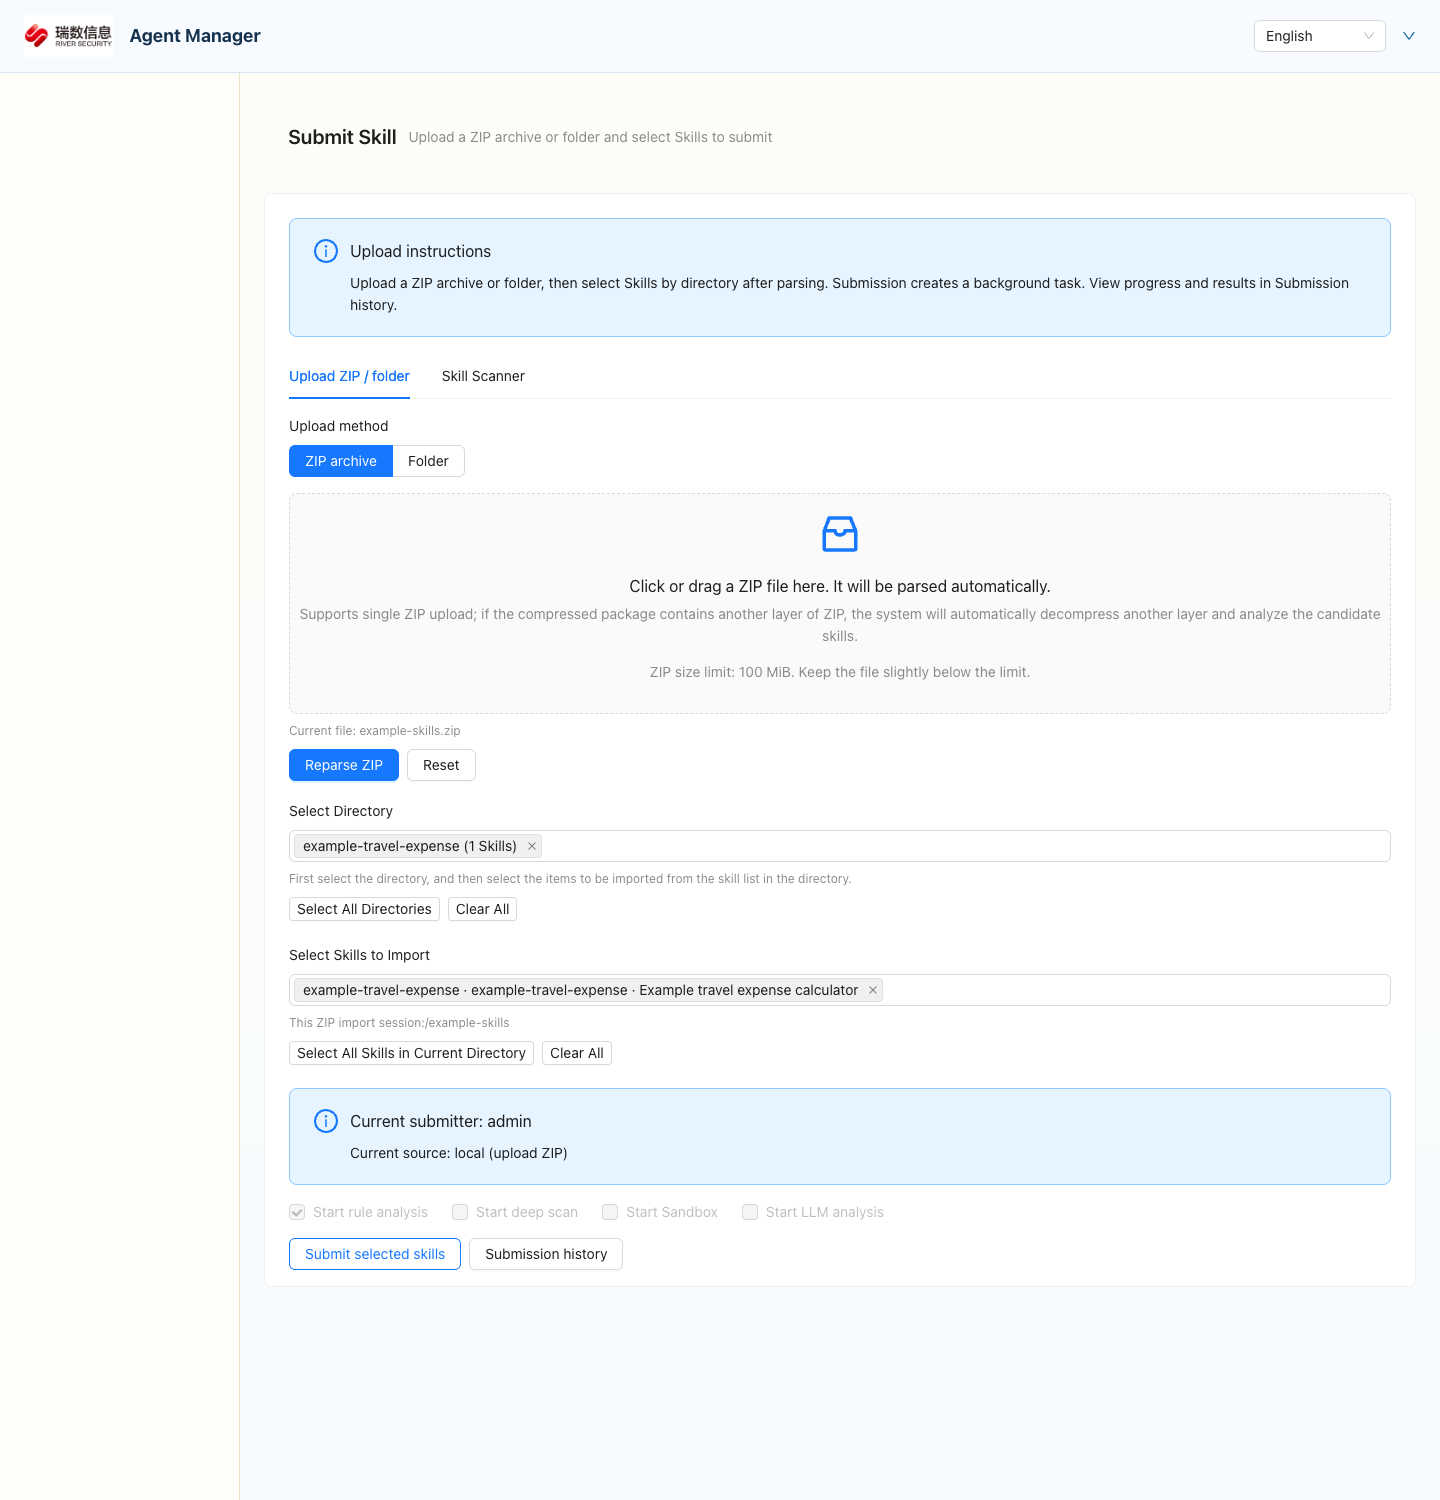
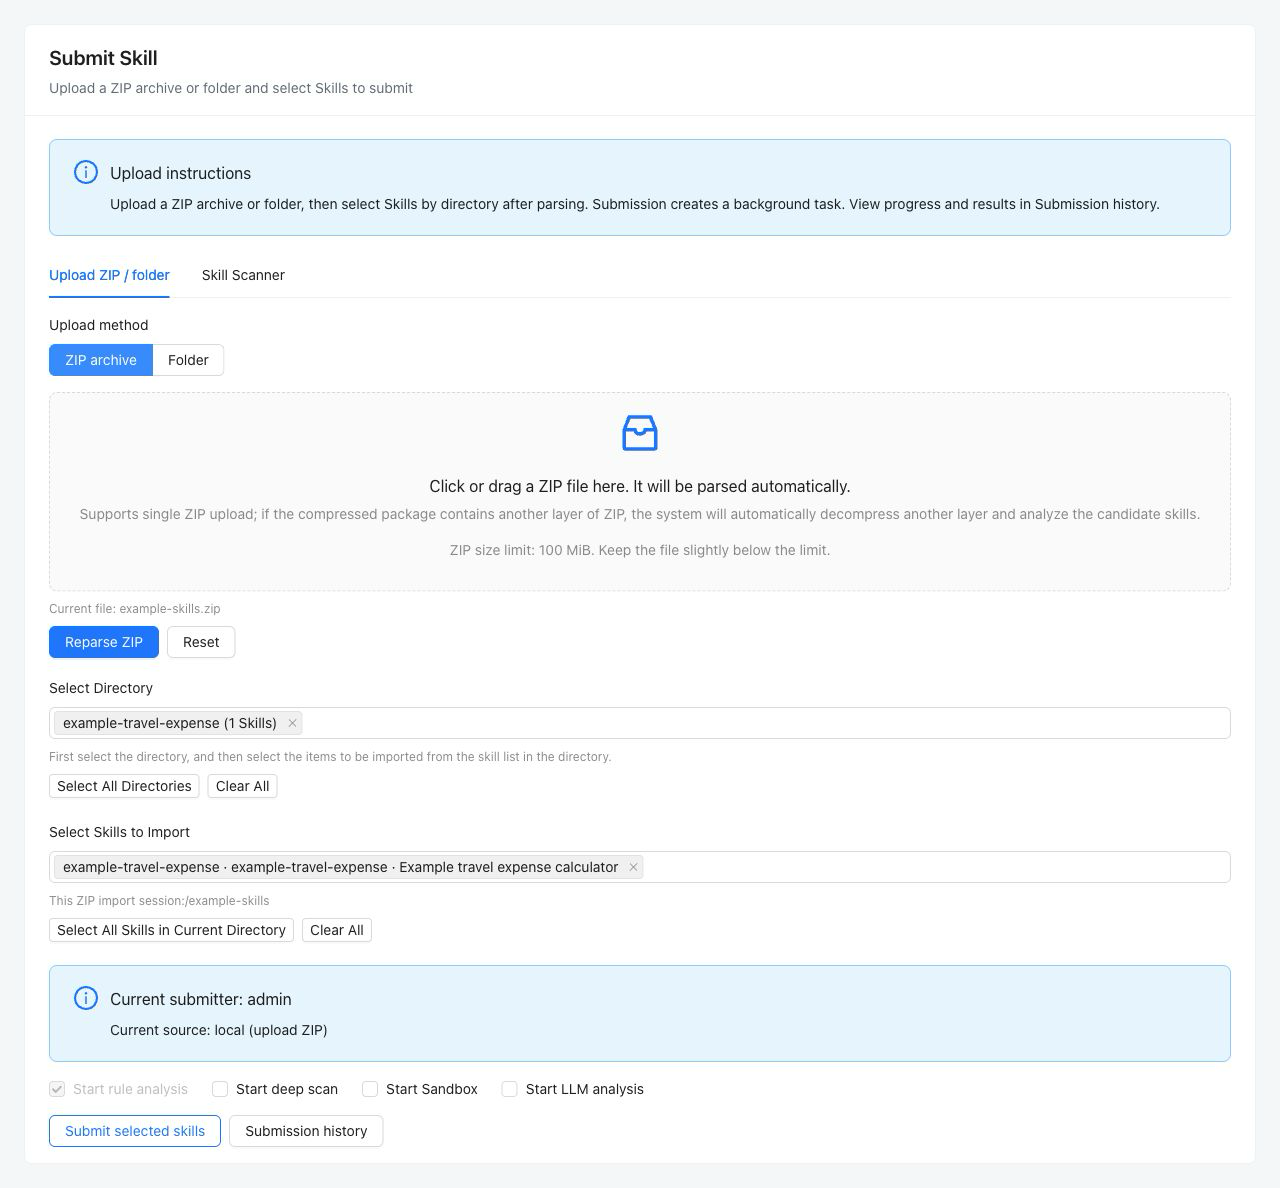
fix(docs): clarify PDF export progress and refresh submission screenshots

diff --git a/web/src/components/DocsExportSettings.vue b/web/src/components/DocsExportSettings.vue
@@ -53,14 +53,38 @@
           </a-button>
         </div>
         <div v-if="pdfProgress" class="pdf-progress" role="status" aria-live="polite">
-          <a-steps size="small" :current="pdfProgressStep" :status="pdfProgress.stage === 'failed' ? 'error' : 'process'"
+          <a-steps size="small" :current="pdfProgressStep" :status="pdfProgress.stage === 'failed' ? 'error' : pdfProgress.stage === 'complete' ? 'finish' : 'process'"
             :items="pdfProgressSteps" />
+          <div class="pdf-progress-overall">
+            <span>{{ t('docsExport.progress.overallStages', { completed: pdfProgressStep, total: pdfStageOrder.length }) }}</span>
+            <a-progress :percent="pdfProgressStep / pdfStageOrder.length * 100" :show-info="false"
+              role="progressbar" :aria-label="t('docsExport.progress.overallLabel')"
+              :aria-valuenow="pdfProgressStep" :aria-valuemin="0" :aria-valuemax="pdfStageOrder.length"
+              :aria-valuetext="t('docsExport.progress.overallStages', { completed: pdfProgressStep, total: pdfStageOrder.length })"
+              :status="pdfProgress.stage === 'failed' ? 'exception' : pdfProgress.stage === 'complete' ? 'success' : pdfExporting ? 'active' : 'normal'" />
+          </div>
+          <div v-if="pdfProgress.pass || pdfProgress.total_passes" class="pdf-progress-stats">
+            <div>
+              <span>{{ t('docsExport.progress.roundsLabel') }}</span>
+              <strong>{{ pdfProgress.total_passes
+                ? t('docsExport.progress.roundsTotal', { count: pdfProgress.total_passes })
+                : t('docsExport.progress.roundsPending', { count: pdfProgress.pass, completed: pdfProgress.pass - 1 }) }}</strong>
+            </div>
+            <div>
+              <span>{{ t('docsExport.progress.pagesLabel') }}</span>
+              <strong>{{ pdfProgress.total_pages
+                ? t('docsExport.progress.pagesTotal', { count: pdfProgress.total_pages })
+                : pdfProgress.estimated_pages
+                  ? t('docsExport.progress.pagesEstimate', { count: pdfProgress.estimated_pages })
+                  : t('docsExport.progress.pagesPending') }}</strong>
+            </div>
+          </div>
           <div class="pdf-progress-detail">
             <span>{{ pdfProgressText }}</span>
             <span>{{ t('docsExport.progress.elapsed', { seconds: pdfElapsed }) }}</span>
             <a-button v-if="pdfExporting" size="small" @click="pdfController?.abort()">{{ t('docsExport.progress.cancel') }}</a-button>
           </div>
-          <a-progress v-if="pdfProgress.stage === 'preparing'" :percent="Math.floor(pdfProgress.completed / pdfProgress.total * 100)" />
+          <p v-if="pdfProgress.stage === 'layout'" class="pdf-progress-hint">{{ t('docsExport.progress.layoutHint') }}</p>
         </div>
       </a-tab-pane>
 
@@ -138,13 +162,19 @@ const pdfStageOrder = ['refreshing', 'preparing', 'layout', 'downloading']
 const pdfProgressSteps = computed(() => pdfStageOrder.map(stage => ({ title: t(`docsExport.progress.${stage}`) })))
 const pdfProgressStep = computed(() => {
   if (pdfProgress.value?.stage === 'complete') return 4
-  const stage = pdfProgress.value?.stage === 'failed' ? pdfProgress.value.previousStage : pdfProgress.value?.stage
+  const stage = ['failed', 'cancelled'].includes(pdfProgress.value?.stage) ? pdfProgress.value.previousStage : pdfProgress.value?.stage
   return Math.max(0, pdfStageOrder.indexOf(stage === 'queued' ? 'preparing' : stage))
 })
 const pdfProgressText = computed(() => {
   const progress = pdfProgress.value
-  const key = progress.stage === 'layout' ? 'layoutPages' : progress.stage === 'preparing' ? 'articles' : progress.stage
-  return t(`docsExport.progress.${key}`, progress)
+  const key = progress.stage === 'layout'
+    ? progress.estimated_pages && progress.page <= progress.estimated_pages ? 'layoutEstimated' : 'layoutPages'
+    : progress.stage === 'downloading' && progress.total_bytes ? 'downloadingFile'
+    : progress.stage === 'preparing' ? 'articles' : progress.stage
+  return t(`docsExport.progress.${key}`, {
+    ...progress,
+    percent: progress.total_bytes ? Math.floor(progress.completed_bytes / progress.total_bytes * 100) : 0,
+  })
 })
 const excelExporting = ref(false)
 const pdfKey = slug => slug || HOME_KEY
@@ -269,18 +299,18 @@ const exportPdf = async () => {
       selectedArticleKeys: selectedPdfArticles.value,
       source: pdfSource.value,
     })
-    const blob = await exportDocsPdf(payload, progress => { pdfProgress.value = progress }, pdfController.signal)
+    const blob = await exportDocsPdf(payload, progress => { pdfProgress.value = { ...pdfProgress.value, ...progress } }, pdfController.signal)
     downloadBlob(blob, docsPdfFilename(exportLocale, now))
-    pdfProgress.value = { stage: 'complete' }
+    pdfProgress.value = { ...pdfProgress.value, stage: 'complete' }
     message.success(t('docsExport.pdfSuccess'))
   } catch (error) {
     if (pdfController.signal.aborted) {
-      pdfProgress.value = { stage: 'cancelled' }
+      pdfProgress.value = { ...pdfProgress.value, stage: 'cancelled', previousStage: pdfProgress.value.stage }
       return
     }
     console.error('Help documentation PDF export failed', error)
     const previousStage = pdfProgress.value.stage
-    pdfProgress.value = { stage: 'failed', previousStage }
+    pdfProgress.value = { ...pdfProgress.value, stage: 'failed', previousStage }
     message.error(t('docsExport.pdfFailed'))
   } finally {
     clearInterval(pdfTimer)
@@ -319,6 +349,13 @@ watch(excelLocale, localeValue => {
 .export-card { margin-bottom: 18px; }
 .pdf-progress { margin-top: 18px; padding: 16px; background: #f8fafc; border: 1px solid #e3eaf2; border-radius: 10px; }
 .pdf-progress-detail { display: flex; align-items: center; flex-wrap: wrap; gap: 12px; margin-top: 12px; color: #526579; overflow-wrap: anywhere; }
+.pdf-progress-stats { display: grid; grid-template-columns: repeat(2, minmax(0, 1fr)); gap: 12px; margin-top: 18px; }
+.pdf-progress-stats > div { display: flex; flex-direction: column; gap: 5px; min-width: 0; }
+.pdf-progress-stats span, .pdf-progress-hint { color: #718196; font-size: 12px; }
+.pdf-progress-stats strong { color: #29445d; overflow-wrap: anywhere; }
+.pdf-progress-hint { margin: 8px 0 0; line-height: 1.5; }
+.pdf-progress-overall { margin-top: 16px; color: #526579; font-size: 12px; }
+@media (prefers-reduced-motion: reduce) { .pdf-progress :deep(.ant-progress-bg::before) { animation: none; } }
 .card-heading { display: flex; align-items: center; gap: 12px; }
 .card-heading > div { display: flex; min-width: 0; flex-direction: column; gap: 3px; white-space: normal; }
 .card-heading strong { color: #1e3852; font-size: 15px; }

diff --git a/web/src/i18n/index.js b/web/src/i18n/index.js
@@ -622,7 +622,13 @@ export const i18n = createI18n({
         progress: {
           refreshing: '读取最新文档', preparing: '整理文章', layout: '排版与目录', downloading: '接收 PDF 文件',
           queued: '等待生成 PDF', articles: '已整理 {completed} / {total} 篇文章',
-          layoutPages: '第 {pass} 轮排版，已处理 {page} 页（目录需多轮校准）',
+          layoutPages: '本轮已排版 {page} 页，正在计算总页数',
+          layoutEstimated: '本轮已排版 {page} / 约 {estimated_pages} 页',
+          overallLabel: '整体流程', overallStages: '整体流程 · 已完成 {completed} / {total} 个阶段',
+          downloadingFile: '正在接收 PDF 文件 · 已接收 {percent}%',
+          roundsLabel: '排版轮次', roundsTotal: '共 {count} 轮', roundsPending: '已完成 {completed} 轮 · 当前第 {count} 轮',
+          pagesLabel: '文档页数', pagesTotal: '共 {count} 页', pagesEstimate: '预计约 {count} 页', pagesPending: '首轮排版后可估算',
+          layoutHint: '正在校准目录与页码，各轮均属于同一次导出。整体进度按已完成阶段展示；总轮数在排版稳定后确定，页数按上一轮估算。',
           elapsed: '已用时 {seconds} 秒', complete: 'PDF 已生成并开始下载',
           failed: '导出失败，请重试', cancelled: '已取消导出', cancel: '取消导出',
         },
@@ -1731,7 +1737,13 @@ export const i18n = createI18n({
         progress: {
           refreshing: 'Read latest documentation', preparing: 'Prepare articles', layout: 'Layout and contents', downloading: 'Receive PDF file',
           queued: 'Waiting to generate PDF', articles: 'Prepared {completed} / {total} articles',
-          layoutPages: 'Layout pass {pass}, {page} pages processed (contents require multiple passes)',
+          layoutPages: '{page} pages laid out in this pass; calculating total pages',
+          layoutEstimated: '{page} / approximately {estimated_pages} pages laid out in this pass',
+          overallLabel: 'Overall workflow', overallStages: 'Overall workflow · {completed} / {total} stages completed',
+          downloadingFile: 'Receiving PDF file · {percent}% received',
+          roundsLabel: 'Layout passes', roundsTotal: '{count} passes in total', roundsPending: 'Completed passes: {completed} · Current pass: {count}',
+          pagesLabel: 'Document pages', pagesTotal: '{count} pages in total', pagesEstimate: 'Approximately {count} pages', pagesPending: 'Estimated after the first pass',
+          layoutHint: 'Aligning the contents and page numbers. All passes belong to the same export. Overall progress tracks completed stages; the pass total is confirmed when layout settles, and pages are estimated from the previous pass.',
           elapsed: 'Elapsed: {seconds}s', complete: 'PDF generated and download started',
           failed: 'Export failed. Please retry.', cancelled: 'Export cancelled', cancel: 'Cancel export',
         },

diff --git a/web/src/utils/docsPdfProgress.js b/web/src/utils/docsPdfProgress.js
@@ -2,6 +2,8 @@ export function createDocsPdfProgressReader(onProgress) {
   let consumed = 0
   let complete = false
   let error
+  let fileProgress
+  let receivedBytes = 0
   const chunks = []
   const feed = text => {
     if (error) return
@@ -12,9 +14,15 @@ export function createDocsPdfProgressReader(onProgress) {
         consumed = end + 1
         if (!line.trim()) continue
         const event = JSON.parse(line)
-        if (event.type === 'progress') onProgress?.(event)
+        if (event.type === 'progress') {
+          if (event.stage === 'downloading') fileProgress = event
+          onProgress?.(event)
+        }
         if (event.type === 'chunk') {
-          chunks.push(Uint8Array.from(atob(event.data), character => character.charCodeAt(0)))
+          const bytes = Uint8Array.from(atob(event.data), character => character.charCodeAt(0))
+          chunks.push(bytes)
+          receivedBytes += bytes.length
+          if (fileProgress) onProgress?.({ ...fileProgress, completed_bytes: receivedBytes })
         }
         if (event.type === 'complete') complete = true
         if (event.type === 'error') throw new Error(event.error_code)

diff --git a/backend/docs_export_pdf.py b/backend/docs_export_pdf.py
@@ -153,6 +153,8 @@ class HelpPdfTemplate(BaseDocTemplate):
         self.footer_text = footer_text
         self.progress = progress
         self.layout_pass = 0
+        self.completed_pages = 0
+        self.estimated_pages = None
         frame = Frame(
             LEFT_MARGIN,
             BOTTOM_MARGIN,
@@ -167,11 +169,23 @@ class HelpPdfTemplate(BaseDocTemplate):
         self.addPageTemplates(PageTemplate(id="help", frames=[frame], onPage=self._draw_page))
 
     def beforeDocument(self) -> None:
+        self.estimated_pages = self.completed_pages or None
+        self.completed_pages = 0
         self.layout_pass += 1
+        self._report_layout()
+
+    def _report_layout(self) -> None:
+        if self.progress:
+            self.progress({
+                "stage": "layout", "pass": self.layout_pass,
+                "page": self.completed_pages, "estimated_pages": self.estimated_pages,
+            })
+
+    def afterPage(self) -> None:
+        self.completed_pages = self.page
+        self._report_layout()
 
     def _draw_page(self, canvas, doc) -> None:
-        if self.progress:
-            self.progress({"stage": "layout", "pass": self.layout_pass, "page": doc.page})
         canvas.showOutline()
         if doc.page <= 2:
             return
@@ -540,6 +554,10 @@ def build_docs_export_pdf(
             progress({"stage": "preparing", "completed": index, "total": len(payload.articles)})
 
     doc.multiBuild(story)
+    document = output.getvalue()
     if progress:
-        progress({"stage": "downloading"})
-    return output.getvalue()
+        progress({
+            "stage": "downloading", "total_passes": doc.layout_pass,
+            "total_pages": doc.completed_pages, "total_bytes": len(document), "completed_bytes": 0,
+        })
+    return document

diff --git a/tests/test_docs_export_pdf.py b/tests/test_docs_export_pdf.py
@@ -106,6 +106,19 @@ def test_streamed_pdf_reports_layout_and_contains_updated_content():
     assert events[-1]["type"] == "complete"
     document = b"".join(base64.b64decode(event["data"]) for event in events if event["type"] == "chunk")
     reader = PdfReader(BytesIO(document))
+    layout = [event for event in progress if event["stage"] == "layout"]
+    passes = sorted({event["pass"] for event in layout})
+    for pass_number in passes:
+        pages = [event for event in layout if event["pass"] == pass_number]
+        assert pages[0]["page"] == 0
+        assert [event["page"] for event in pages] == list(range(pages[-1]["page"] + 1))
+        estimate = None if pass_number == 1 else max(event["page"] for event in layout if event["pass"] == pass_number - 1)
+        assert all(event["estimated_pages"] == estimate for event in pages)
+    ready = next(event for event in progress if event["stage"] == "downloading")
+    assert ready["total_passes"] == max(passes)
+    assert ready["total_pages"] == len(reader.pages)
+    assert ready["total_bytes"] == len(document)
+    assert ready["completed_bytes"] == 0
     assert "Updated documentation revision for this export." in "".join(page.extract_text() for page in reader.pages)
     assert "Governance flow" in _outline_titles(reader.outline)
 

diff --git a/docs/project-guide.md b/docs/project-guide.md
@@ -2220,7 +2220,7 @@ Trace 保存原始 PII，默认只应开放给 `admin`、`super_admin`、`privac
 
 PDF 固定包含封面、页面目录、语言、导出时间和侧边目录，并保持帮助中心顺序；封面不显示所选文章数量。Excel 固定启用明细筛选和表头冻结，模块统计只计算本次选择的功能。两类导出都只读取当前内置文档和能力目录，不读取文档助手对话，也不受文档助手开关影响。
 
-PDF 导出显示读取最新文档、整理文章、排版与目录、接收文件四个阶段，以及实际处理的文章数、排版轮次、页数和累计耗时。目录页码需要多轮排版，页面按轮次显示进度；支持取消和失败后重试。后端在工作线程中生成 PDF，通过流式响应反馈进度，完成后启动下载。
+PDF 导出显示读取最新文档、整理文章、排版与目录、接收文件四个阶段，以及实际处理的文章数、排版轮次、页数和累计耗时。主进度条按已完成阶段展示，旁边标明“已完成 X / 4 个阶段”；多轮排版期间保持在同一个阶段，只有文件接收完成并启动下载后才显示全部完成。排版详情单独显示已完成轮数、当前轮次和本轮已排版页数，后续轮次按上一轮总页数提供页数估计。轮次总数在目录校准结束后确定，完成后显示实际总轮数和总页数。接收文件详情按已接收字节显示文件接收百分比。支持取消和失败后重试，取消或失败时保留当时的阶段。后端在工作线程中生成 PDF，通过流式响应反馈进度，完成后启动下载。
 
 在线帮助与导出内容共用 `web/src/docs/content.js` 组装后的数据。前端构建同步生成 `/docs/content.json`；导出时禁用该资源的缓存，完整文档预设包含本次读取到的全部文章，自定义范围保留仍存在的所选文章。文档修改须随前端发布，截图须随对应后端版本发布。最新文档读取失败时会提示导出失败。
 
